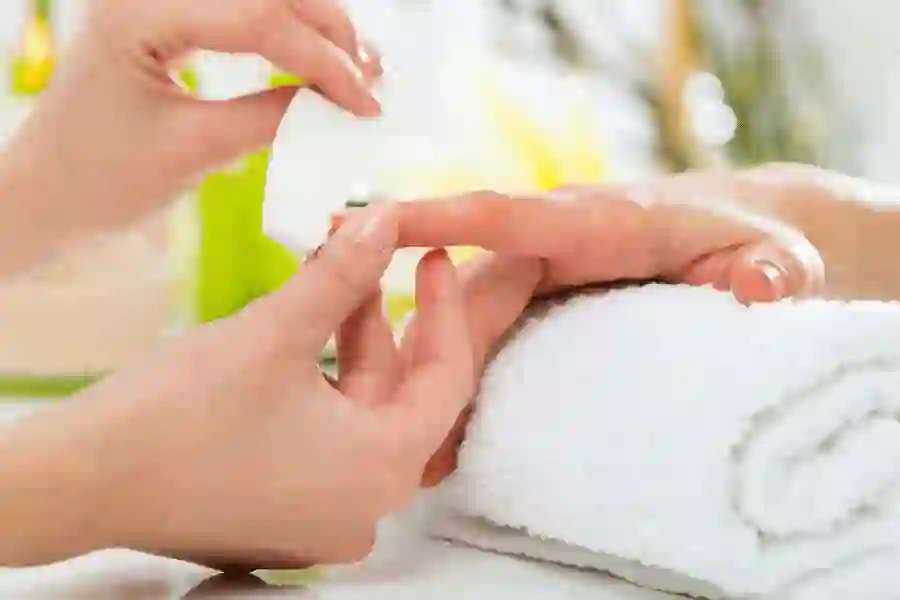
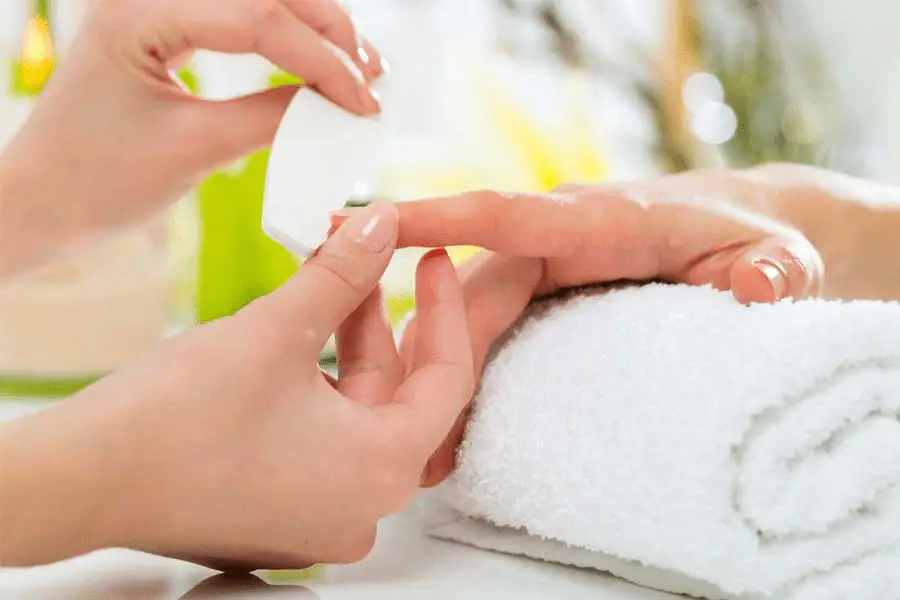
img webp

diff --git a/style/style.css b/style/style.css
@@ -72,7 +72,7 @@ a {
 /* HERO */
 
 .hero {
-    background-image: url("../img/istockphoto-898577958-612x612.jpg");
+    background-image: url("../img/istockphoto-898577958-612x612.webp");
     background-repeat: no-repeat;
     background-size: cover;
     background-position: center;
@@ -111,7 +111,7 @@ a {
 }
 
 .logoBienvenida {
-    background-image: url("../img/Logo\ bienvenida.png");
+    background-image: url("../img/Logo\ bienvenida.webp");
     background-size: cover;
     padding: 0;
     height: 35vh; 

diff --git a/index.html b/index.html
@@ -72,7 +72,7 @@
         </section>
 
         <aside class="asideInicio">
-            <a href="html/tratamientos.html"><img src="./img/aside.png" alt="foto enlace tratamientos"></a>
+            <a href="html/tratamientos.html"><img src="./img/aside.webp" alt="foto enlace tratamientos"></a>
         </aside>
     </section>
 
